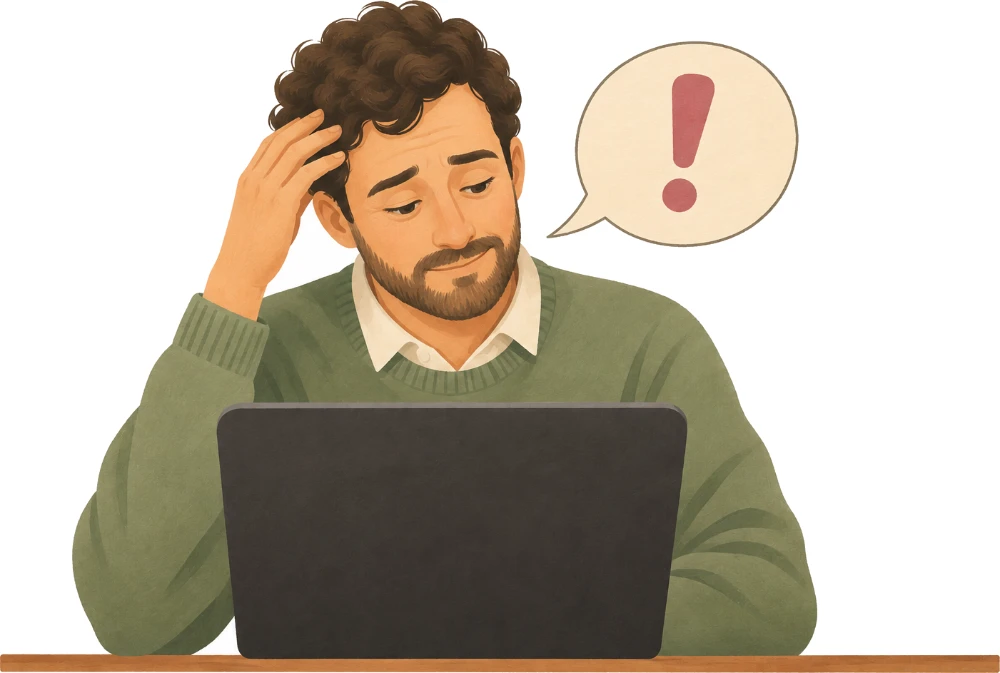
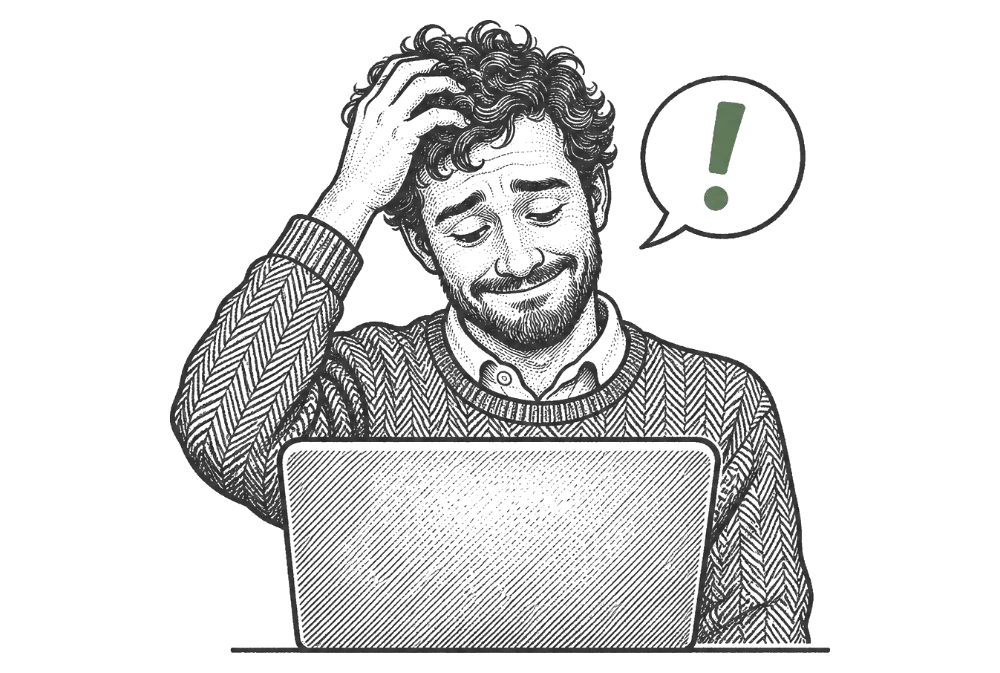
Lab: the people and the two cards in the engraved hand; the cards' graphics open their case studies (#1196)
The account manager and the accounts payable specialist are redrawn as ink
with sage, cut to a transparent ground. Each lab card, on the homepage and
the lab index, carries a drawing where it carried a text-heavy graphic, and
those graphics move to the right of each case study's opener.

diff --git a/index.html b/index.html
@@ -127,7 +127,7 @@
   <link rel="stylesheet" href="style.css?v=20261114c" />
   <link rel="stylesheet" href="site-nav.css?v=20261030b" />
   <link rel="stylesheet" href="app-device.css?v=1" />
-  <link rel="stylesheet" href="thumb-loop.css?v=20" />
+  <link rel="stylesheet" href="thumb-loop.css?v=21" />
   <script src="site-nav.js?v=20260906a" defer></script>
   <script src="app-device.js?v=1" defer></script>
   <!-- The header logo plays a one-shot reveal clip on load and fades out
@@ -1115,6 +1115,12 @@
                belongs on the card, without making it longer). The headline
                already carries the problem; the lead says what the project is
                for, shortened from the case study's line. -->
+          <!-- A DRAWING ON EACH LAB CARD, since 2026-11-15 (Adam: the two
+               graphics felt overwhelming with so much text; an illustration
+               that gets the idea across and invites the click). The
+               graphics moved to the top of their case studies, beside the
+               title. The drawings are in the Writing section's engraved
+               hand, sage as the one accent. -->
           <div class="case-card case-card--lab reveal">
             <div class="case-card-body">
               <h3>Agents build the screens. A designer decides what ships.</h3>
@@ -1156,48 +1162,8 @@
                  screen reader; their names say what they show. The lab
                  index keeps the Explore still above. thumb-loop.css,
                  "Three ways to archive", has it. -->
-            <a class="case-thumb case-thumb--still" href="lab/agent-review.html" aria-label="Read the Agent Review case study: three ways to archive, one designer&rsquo;s call">
-              <div class="explore-still explore-still--three">
-                <ol class="explore-still-stages" aria-label="The prototype's six stages">
-                  <li><span>Discover</span></li>
-                  <li><span>Define</span></li>
-                  <li aria-current="step"><span>Explore</span></li>
-                  <li><span>Evaluate</span></li>
-                  <li><span>Delegate</span></li>
-                  <li><span>Learn</span></li>
-                </ol>
-                <div class="three-body">
-                <p class="explore-still-title">Three ways to archive. <span class="explore-still-ask">One designer&rsquo;s call.</span></p>
-                <ul class="three-ways">
-                  <li class="three-way three-way--call">
-                    <span class="three-screen" aria-hidden="true">
-                      <span class="three-bar"><span>Customers</span><span class="three-btn">Archive</span></span>
-                      <span class="three-row"></span><span class="three-row"></span><span class="three-row"></span><span class="three-row"></span><span class="three-row"></span>
-                      <span class="three-toast"><span>4 archived</span><span class="three-undo">Undo</span></span>
-                    </span>
-                    <span class="explore-still-name">Archive, then undo</span>
-                    <span class="explore-still-line">One press, even in bulk</span>
-                  </li>
-                  <li class="three-way">
-                    <span class="three-screen three-screen--dim" aria-hidden="true">
-                      <span class="three-bar"><span>Customers</span><span class="three-btn">Archive</span></span>
-                      <span class="three-row is-picked"></span><span class="three-row is-picked"></span><span class="three-row is-picked"></span><span class="three-row is-picked"></span><span class="three-row is-picked"></span>
-                      <span class="three-dialog"><span class="three-dialog-title">Archive 5?</span><span>3 are active.</span><span class="three-btn three-btn--dark">Archive 5</span></span>
-                    </span>
-                    <span class="explore-still-name">Confirm first</span>
-                    <span class="explore-still-line">Names who&rsquo;s at risk first</span>
-                  </li>
-                  <li class="three-way">
-                    <span class="three-screen" aria-hidden="true">
-                      <span class="three-bar"><span>Customers</span><span class="three-btn three-btn--dark">Archive 2</span></span>
-                      <span class="three-row is-picked"></span><span class="three-row is-active"><span>Active</span></span><span class="three-row is-active"><span>Active</span></span><span class="three-row is-active"><span>Active</span></span><span class="three-row is-picked"></span>
-                    </span>
-                    <span class="explore-still-name">Review the batch</span>
-                    <span class="explore-still-line">Safest, but the most steps</span>
-                  </li>
-                </ul>
-                </div>
-              </div>
+            <a class="case-thumb case-thumb--art" href="lab/agent-review.html" aria-label="Read the Agent Review case study: three versions of one screen, and a designer choosing one">
+              <img src="img/lab/agent-review-card-ink.webp?v=1" width="1536" height="1024" alt="" loading="lazy" decoding="async" />
             </a>
           </div>
 
@@ -1222,30 +1188,8 @@
                2.4, the stroke Agent Review's prompt prints at, in place of
                Wren's W, which stays Wren's own logo inside the prototype. -->
           <div class="case-card case-card--lab reveal">
-            <a class="case-thumb case-thumb--still" href="lab/after-send.html" aria-label="Read the After Send case study: the invoice says paid, and the supplier is still calling">
-              <div class="explore-still explore-still--handoff">
-                <p class="handoff-record"><span>INV-20483<span class="handoff-supplier"> &middot; Hillside Packaging</span></span><span class="handoff-paid">Marked paid</span></p>
-                <div class="handoff-body">
-                <p class="explore-still-title">&ldquo;Paid&rdquo; is three steps. Only one is done. <span class="explore-still-ask">Next: check if the supplier got the card.</span></p>
-                <ol class="handoff-rail">
-                  <li class="handoff-step--done">
-                    <svg class="explore-still-icon" viewBox="0 0 24 24" fill="none" stroke="currentColor" stroke-width="1.6" stroke-linecap="round" stroke-linejoin="round" aria-hidden="true" focusable="false"><path d="m5 12.5 4.5 4.5L19 7.5"/></svg>
-                    <span class="explore-still-name">Card issued</span>
-                    <span class="explore-still-line">Yes, on Oct 28</span>
-                  </li>
-                  <li class="handoff-step--asked">
-                    <svg class="explore-still-icon" viewBox="0 0 24 24" fill="none" stroke="currentColor" stroke-width="1.6" stroke-linecap="round" stroke-linejoin="round" aria-hidden="true" focusable="false"><circle cx="12" cy="12" r="9"/><path d="M12 7v5l3 2"/></svg>
-                    <span class="explore-still-name">Supplier charged&nbsp;it</span>
-                    <span class="explore-still-line">Not yet</span>
-                  </li>
-                  <li class="handoff-step--open">
-                    <svg class="explore-still-icon" viewBox="0 0 24 24" fill="none" stroke="currentColor" stroke-width="1.6" stroke-linecap="round" stroke-linejoin="round" aria-hidden="true" focusable="false"><path d="M7 3.5h7.5L19 8v12.5H7z"/><path d="M14.5 3.5V8H19"/><path d="M10 13h6"/><path d="M10 16.5h6"/></svg>
-                    <span class="explore-still-name">Matched to the&nbsp;invoice</span>
-                    <span class="explore-still-line">Invoice still open</span>
-                  </li>
-                </ol>
-                </div>
-              </div>
+            <a class="case-thumb case-thumb--art" href="lab/after-send.html" aria-label="Read the After Send case study: the invoice says paid, and the supplier is still calling">
+              <img src="img/lab/after-send-card-ink.webp?v=1" width="1536" height="1024" alt="" loading="lazy" decoding="async" />
             </a>
             <div class="case-card-body">
               <h3>The invoice says paid. Why is the supplier still calling?</h3>

diff --git a/lab/agent-review.html b/lab/agent-review.html
@@ -102,7 +102,8 @@
   <link rel="stylesheet" href="../read-aloud.css?v=7" />
   <link rel="stylesheet" href="../reveal.css?v=2" />
   <link rel="stylesheet" href="relay-screen.css?v=3" />
-  <link rel="stylesheet" href="agent-review.css?v=133" />
+  <link rel="stylesheet" href="../thumb-loop.css?v=21" />
+  <link rel="stylesheet" href="agent-review.css?v=134" />
   <link rel="stylesheet" href="try-lead.css?v=1" />
   <script src="../site-nav.js?v=20260906a" defer></script>
   <script src="../read-aloud.js?v=4" defer></script>
@@ -313,20 +314,57 @@
               </p>
             </div>
           </div>
-          <figure class="ev arc-open-fig" data-step="reviewing" aria-label="Relay: the review open on three customers, naming Northside Trucking">
-              <div class="arc-device">
-                <div class="arc-device-bar" aria-hidden="true"><span class="arc-device-dots"><span></span><span></span><span></span></span><span class="arc-device-title">Relay &middot; Customers</span></div>
-                <div class="ev-screen">
-                  <div class="ev-bar" data-for="reviewing"><span class="ev-bar-text">3 of 5 customers selected</span></div><section class="ev-review" data-for="reviewing" aria-label="Review">
-                    <p class="ev-review-title">Review 3 customers before archiving</p>
-                    <p class="ev-review-group"><span class="ship-list-tag ship-list-tag--active">Active</span> Check this one. Clear the box to keep the customer.</p>
-                    <ul class="ev-keep"><li data-on><svg class="ev-check" viewBox="0 0 16 16" aria-hidden="true" focusable="false"><path d="M4 8.5l2.5 2.5 5.5-6"/></svg>Northside Trucking, $5,040 a month</li></ul>
-                    <p class="ev-review-line">2 customers churned or on trial.</p>
-                    <p class="ev-review-keys"><span class="ev-key ev-key--quiet">Cancel</span> <span class="ev-key ev-key--archive">Archive 3 customers</span></p>
-                  </section>
-                </div>
+          <!-- THE HOMEPAGE CARD'S GRAPHIC, since 2026-11-15 (Adam: use it at
+               the top of the case study, on the right, in place of what
+               was there). The card took a drawing; this took the Relay
+               review screen's place. It is a picture here, named once for
+               a screen reader, and the words in it are the page's own
+               below. thumb-loop.css, "Three ways to archive", has it. -->
+          <figure class="arc-open-fig arc-open-still" role="img" aria-label="Three ways to archive, and one designer&rsquo;s call: archive, then undo; confirm first; or review the batch. Archive, then undo is ringed.">
+            <div aria-hidden="true">
+              <div class="explore-still explore-still--three">
+              <ol class="explore-still-stages" aria-label="The prototype's six stages">
+              <li><span>Discover</span></li>
+              <li><span>Define</span></li>
+              <li aria-current="step"><span>Explore</span></li>
+              <li><span>Evaluate</span></li>
+              <li><span>Delegate</span></li>
+              <li><span>Learn</span></li>
+              </ol>
+              <div class="three-body">
+              <p class="explore-still-title">Three ways to archive. <span class="explore-still-ask">One designer&rsquo;s call.</span></p>
+              <ul class="three-ways">
+              <li class="three-way three-way--call">
+              <span class="three-screen" aria-hidden="true">
+              <span class="three-bar"><span>Customers</span><span class="three-btn">Archive</span></span>
+              <span class="three-row"></span><span class="three-row"></span><span class="three-row"></span><span class="three-row"></span><span class="three-row"></span>
+              <span class="three-toast"><span>4 archived</span><span class="three-undo">Undo</span></span>
+              </span>
+              <span class="explore-still-name">Archive, then undo</span>
+              <span class="explore-still-line">One press, even in bulk</span>
+              </li>
+              <li class="three-way">
+              <span class="three-screen three-screen--dim" aria-hidden="true">
+              <span class="three-bar"><span>Customers</span><span class="three-btn">Archive</span></span>
+              <span class="three-row is-picked"></span><span class="three-row is-picked"></span><span class="three-row is-picked"></span><span class="three-row is-picked"></span><span class="three-row is-picked"></span>
+              <span class="three-dialog"><span class="three-dialog-title">Archive 5?</span><span>3 are active.</span><span class="three-btn three-btn--dark">Archive 5</span></span>
+              </span>
+              <span class="explore-still-name">Confirm first</span>
+              <span class="explore-still-line">Names who&rsquo;s at risk first</span>
+              </li>
+              <li class="three-way">
+              <span class="three-screen" aria-hidden="true">
+              <span class="three-bar"><span>Customers</span><span class="three-btn three-btn--dark">Archive 2</span></span>
+              <span class="three-row is-picked"></span><span class="three-row is-active"><span>Active</span></span><span class="three-row is-active"><span>Active</span></span><span class="three-row is-active"><span>Active</span></span><span class="three-row is-picked"></span>
+              </span>
+              <span class="explore-still-name">Review the batch</span>
+              <span class="explore-still-line">Safest, but the most steps</span>
+              </li>
+              </ul>
               </div>
-            </figure>
+              </div>
+            </div>
+          </figure>
         </div>
         <dl class="glance-facts arc-open-facts">
           <div><dt>Why I built it</dt><dd>To show how I use AI to explore working options, make a product decision, and carry that decision into the next build.</dd></div>
@@ -375,7 +413,7 @@
             <h3 class="ars-title">All three are gone</h3>
             <p>The list gets shorter, and nothing on the screen says who went. Then a support ticket arrives.</p>
             <div class="ars-ticket">
-              <img src="../img/lab/agent-review-account-manager.webp" width="1000" height="673" loading="lazy" decoding="async"
+              <img src="../img/lab/agent-review-account-manager.webp?v=2" width="1000" height="673" loading="lazy" decoding="async"
                    alt="A sheepish account manager behind his open laptop, one hand in his hair, with a speech bubble beside him holding an exclamation mark." />
               <blockquote>
                 <p>&ldquo;I archived Northside Trucking by accident while clearing out old trial accounts. It&rsquo;s one of our biggest accounts. How do I get it back?&rdquo;</p>

diff --git a/lab/after-send.html b/lab/after-send.html
@@ -103,7 +103,8 @@
   <link rel="stylesheet" href="../related.css?v=3" />
   <link rel="stylesheet" href="../read-aloud.css?v=7" />
   <link rel="stylesheet" href="wren.css?v=9" />
-  <link rel="stylesheet" href="after-send.css?v=32" />
+  <link rel="stylesheet" href="../thumb-loop.css?v=21" />
+  <link rel="stylesheet" href="after-send.css?v=33" />
   <link rel="stylesheet" href="try-lead.css?v=1" />
   <script src="../site-nav.js?v=20260906a" defer></script>
   <!-- "Listen to this page" reads the writing around the prototype and not
@@ -251,14 +252,50 @@
       <div class="container case-wide">
         <p class="case-kicker">Lab &middot; After Send &middot; <span class="case-readtime">5 min read</span></p>
         <h1 class="case-title">The invoice says paid. Why is the supplier still calling?</h1>
-        <p class="build-dek">An independent concept on one question: <mark>what happens when a payment status is accurate, but doesn&rsquo;t tell someone what they need to know?</mark> Here, the buyer issued a virtual card, and the supplier hasn&rsquo;t charged it.</p>
-        <!-- WHY I BUILT IT, since 2026-11-08: the same labelled line
-             Agent Review's hero opens on, in this project's terms, made from
-             the build note the close carried until then (Adam). -->
-        <p class="build-dek"><span class="as-dek-label">Why I built it:</span> To show how I decide what the person taking the call needs to see first, then use AI to build the first working version in a day.</p>
-        <div class="as-hero-act">
-          <p class="build-hero-act" data-read-aloud="skip after"><a class="btn btn-primary" href="#try-it">Try the prototype</a></p>
-          <p class="as-standing">Independent concept on simulated data. Wren Payments, the product, and every name and reference in it are made up.</p>
+        <!-- THE HOMEPAGE CARD'S GRAPHIC BESIDE THE OPENING, since 2026-11-15
+             (Adam: use it at the top of the case study, on the right). The
+             card took a drawing. It is a picture here, named once for a
+             screen reader; the page's own words carry the three steps
+             below. thumb-loop.css, "The handoff", has it. -->
+        <div class="as-open-split">
+          <div class="as-open-text">
+          <p class="build-dek">An independent concept on one question: <mark>what happens when a payment status is accurate, but doesn&rsquo;t tell someone what they need to know?</mark> Here, the buyer issued a virtual card, and the supplier hasn&rsquo;t charged it.</p>
+          <!-- WHY I BUILT IT, since 2026-11-08: the same labelled line
+               Agent Review's hero opens on, in this project's terms, made from
+               the build note the close carried until then (Adam). -->
+          <p class="build-dek"><span class="as-dek-label">Why I built it:</span> To show how I decide what the person taking the call needs to see first, then use AI to build the first working version in a day.</p>
+          <div class="as-hero-act">
+            <p class="build-hero-act" data-read-aloud="skip after"><a class="btn btn-primary" href="#try-it">Try the prototype</a></p>
+            <p class="as-standing">Independent concept on simulated data. Wren Payments, the product, and every name and reference in it are made up.</p>
+          </div>
+          </div>
+          <figure class="as-open-fig" role="img" aria-label="Invoice INV-20483, marked paid. Paid is three steps and only one is done: the card was issued; the supplier has not charged it; the invoice is still open.">
+            <div aria-hidden="true">
+              <div class="explore-still explore-still--handoff">
+              <p class="handoff-record"><span>INV-20483<span class="handoff-supplier"> &middot; Hillside Packaging</span></span><span class="handoff-paid">Marked paid</span></p>
+              <div class="handoff-body">
+              <p class="explore-still-title">&ldquo;Paid&rdquo; is three steps. Only one is done. <span class="explore-still-ask">Next: check if the supplier got the card.</span></p>
+              <ol class="handoff-rail">
+              <li class="handoff-step--done">
+              <svg class="explore-still-icon" viewBox="0 0 24 24" fill="none" stroke="currentColor" stroke-width="1.6" stroke-linecap="round" stroke-linejoin="round" aria-hidden="true" focusable="false"><path d="m5 12.5 4.5 4.5L19 7.5"/></svg>
+              <span class="explore-still-name">Card issued</span>
+              <span class="explore-still-line">Yes, on Oct 28</span>
+              </li>
+              <li class="handoff-step--asked">
+              <svg class="explore-still-icon" viewBox="0 0 24 24" fill="none" stroke="currentColor" stroke-width="1.6" stroke-linecap="round" stroke-linejoin="round" aria-hidden="true" focusable="false"><circle cx="12" cy="12" r="9"/><path d="M12 7v5l3 2"/></svg>
+              <span class="explore-still-name">Supplier charged&nbsp;it</span>
+              <span class="explore-still-line">Not yet</span>
+              </li>
+              <li class="handoff-step--open">
+              <svg class="explore-still-icon" viewBox="0 0 24 24" fill="none" stroke="currentColor" stroke-width="1.6" stroke-linecap="round" stroke-linejoin="round" aria-hidden="true" focusable="false"><path d="M7 3.5h7.5L19 8v12.5H7z"/><path d="M14.5 3.5V8H19"/><path d="M10 13h6"/><path d="M10 16.5h6"/></svg>
+              <span class="explore-still-name">Matched to the&nbsp;invoice</span>
+              <span class="explore-still-line">Invoice still open</span>
+              </li>
+              </ol>
+              </div>
+              </div>
+            </div>
+          </figure>
         </div>
       </div>
     </header>
@@ -294,7 +331,7 @@
             <div class="as-zone">
               <div class="as-call is-on" data-on="1">
                 <div class="as-call-party">
-                  <img class="as-call-art" src="../img/lab/after-send-specialist.webp" width="1000" height="667" loading="lazy" decoding="async" alt="The buyer&rsquo;s accounts payable specialist at her laptop with a desk phone to her ear, looking puzzled, with a speech bubble holding a question mark." />
+                  <img class="as-call-art" src="../img/lab/after-send-specialist.webp?v=2" width="1000" height="667" loading="lazy" decoding="async" alt="The buyer&rsquo;s accounts payable specialist at her laptop with a desk phone to her ear, looking puzzled, with a speech bubble holding a question mark." />
                   <p class="as-side-name">The buyer</p>
                   <p class="as-side-role">Accounts payable specialist</p>
                 </div>

diff --git a/lab/index.html b/lab/index.html
@@ -93,7 +93,7 @@
   <link rel="stylesheet" href="../type.css?v=8" />
   <link rel="stylesheet" href="../style.css?v=20261114c" />
   <link rel="stylesheet" href="../site-nav.css?v=20261030b" />
-  <link rel="stylesheet" href="../thumb-loop.css?v=20" />
+  <link rel="stylesheet" href="../thumb-loop.css?v=21" />
   <link rel="stylesheet" href="index.css?v=8" />
   <script src="../site-nav.js?v=20260906a" defer></script>
   <!-- The header logo plays a one-shot reveal clip on load and fades out
@@ -278,27 +278,7 @@
                word hides. -->
           <li class="writing-item">
             <a class="writing-link" href="after-send.html">
-              <div class="explore-still explore-still--handoff writing-card" aria-hidden="true">
-                <p class="handoff-record"><span>INV-20483<span class="handoff-supplier"> &middot; Hillside Packaging</span></span><span class="handoff-paid">Marked paid</span></p>
-                <p class="explore-still-title">&ldquo;Paid&rdquo; is three steps. Only one is done. <span class="explore-still-ask">Next: check if the supplier got the card.</span></p>
-                <ol class="handoff-rail">
-                  <li class="handoff-step--done">
-                    <svg class="explore-still-icon" viewBox="0 0 24 24" fill="none" stroke="currentColor" stroke-width="1.6" stroke-linecap="round" stroke-linejoin="round" aria-hidden="true" focusable="false"><path d="m5 12.5 4.5 4.5L19 7.5"/></svg>
-                    <span class="explore-still-name">Card issued</span>
-                    <span class="explore-still-line">Yes, on Oct 28</span>
-                  </li>
-                  <li class="handoff-step--asked">
-                    <svg class="explore-still-icon" viewBox="0 0 24 24" fill="none" stroke="currentColor" stroke-width="1.6" stroke-linecap="round" stroke-linejoin="round" aria-hidden="true" focusable="false"><circle cx="12" cy="12" r="9"/><path d="M12 7v5l3 2"/></svg>
-                    <span class="explore-still-name">Supplier charged&nbsp;it</span>
-                    <span class="explore-still-line">Not yet</span>
-                  </li>
-                  <li class="handoff-step--open">
-                    <svg class="explore-still-icon" viewBox="0 0 24 24" fill="none" stroke="currentColor" stroke-width="1.6" stroke-linecap="round" stroke-linejoin="round" aria-hidden="true" focusable="false"><path d="M7 3.5h7.5L19 8v12.5H7z"/><path d="M14.5 3.5V8H19"/><path d="M10 13h6"/><path d="M10 16.5h6"/></svg>
-                    <span class="explore-still-name">Matched to the&nbsp;invoice</span>
-                    <span class="explore-still-line">Invoice still open</span>
-                  </li>
-                </ol>
-              </div>
+              <img class="writing-card" src="../img/lab/after-send-card-ink.webp?v=1" width="1536" height="1024" alt="" loading="lazy" decoding="async" />
               <div class="writing-text">
                 <h3 class="writing-title">After Send: the invoice says paid. Why is the supplier still calling?</h3>
                 <p class="writing-dek">The card was issued but never charged. An independent concept on simulated data, not tested with specialists yet.</p>
@@ -351,34 +331,7 @@
                already asks. -->
           <li class="writing-item">
             <a class="writing-link" href="agent-review.html">
-              <div class="explore-still writing-card" aria-hidden="true">
-                <ol class="explore-still-stages" aria-label="The prototype's six stages">
-                  <li><span>Discover</span></li>
-                  <li><span>Define</span></li>
-                  <li aria-current="step"><span>Explore</span></li>
-                  <li><span>Evaluate</span></li>
-                  <li><span>Delegate</span></li>
-                  <li><span>Learn</span></li>
-                </ol>
-                <p class="explore-still-title">A simulated agent built three ways to archive. <span class="explore-still-ask">Which one ships?</span></p>
-                <ul class="explore-still-ways">
-                  <li>
-                    <svg class="explore-still-icon" viewBox="0 0 24 24" fill="none" stroke="currentColor" stroke-width="1.6" stroke-linecap="round" stroke-linejoin="round" aria-hidden="true" focusable="false"><path d="M9 14 4 9l5-5"/><path d="M4 9h10.5a5.5 5.5 0 0 1 0 11H11"/></svg>
-                    <span class="explore-still-name">Archive now, undo after</span>
-                    <span class="explore-still-line">Fast, but you have to notice</span>
-                  </li>
-                  <li>
-                    <svg class="explore-still-icon" viewBox="0 0 24 24" fill="none" stroke="currentColor" stroke-width="1.6" stroke-linecap="round" stroke-linejoin="round" aria-hidden="true" focusable="false"><path d="M20 11.5a8 8 0 0 1-11.6 7.1L4 20l1.4-4.2A8 8 0 1 1 20 11.5Z"/><path d="M9.8 9.2a2.3 2.3 0 1 1 3.2 2.1c-.6.3-1 .8-1 1.4v.3"/><path d="M12 16.2h.01"/></svg>
-                    <span class="explore-still-name">Confirm first, naming who</span>
-                    <span class="explore-still-line">Easy to click past, unread</span>
-                  </li>
-                  <li>
-                    <svg class="explore-still-icon" viewBox="0 0 24 24" fill="none" stroke="currentColor" stroke-width="1.6" stroke-linecap="round" stroke-linejoin="round" aria-hidden="true" focusable="false"><path d="m4 6 1.5 1.5L8.5 4.5"/><path d="m4 12 1.5 1.5L8.5 10.5"/><path d="m4 18 1.5 1.5L8.5 16.5"/><path d="M12 6h8"/><path d="M12 12h8"/><path d="M12 18h8"/></svg>
-                    <span class="explore-still-name">Review batch, then archive</span>
-                    <span class="explore-still-line">Safest, but the most steps</span>
-                  </li>
-                </ul>
-              </div>
+              <img class="writing-card" src="../img/lab/agent-review-card-ink.webp?v=1" width="1536" height="1024" alt="" loading="lazy" decoding="async" />
               <div class="writing-text">
                 <h3 class="writing-title">Agent Review: three working versions, one human decision</h3>
                 <p class="writing-dek">A working prototype for comparing interface tradeoffs before deciding what ships. The agent&rsquo;s runs are simulated.</p>

diff --git a/lab/after-send.css b/lab/after-send.css
@@ -949,3 +949,13 @@
 .as-test-ends li::before { content: none; }
 .as-test-ends strong { font-weight: var(--weight-semibold); color: var(--color-charcoal); }
 
+
+/* ---- The opener, with the card's graphic beside it (2026-11-15) ----
+   One column to 64rem, the graphic under the words; two from there, the
+   same 5 to 6 split Agent Review's opener uses. */
+.as-open-split { display: grid; gap: var(--space-2xl); }
+.as-open-fig { min-width: 0; margin: 0; }
+.as-open-fig .explore-still { box-shadow: inset 0 0 0 1px var(--rule-card), var(--shadow-media); }
+@media (min-width: 64rem) {
+  .as-open-split { grid-template-columns: minmax(0, 5fr) minmax(0, 6fr); column-gap: var(--space-4xl); align-items: center; }
+}

diff --git a/thumb-loop.css b/thumb-loop.css
@@ -18,6 +18,8 @@
    the ways are rows with the icon beside the words, and the stage bar
    names only the stage it is on; from 30rem the ways stand three across
    and every stage is named; from 36rem their words take a step up. */
+/* A lab card's drawing is 3:2, where a case study's capture is 16:9. */
+.case-thumb--art { aspect-ratio: 3 / 2; }
 .case-thumb--still {
   aspect-ratio: auto;
   background: var(--color-charcoal);
@@ -335,6 +337,7 @@
   width: 72%;
   box-sizing: border-box;
   padding: var(--space-xs);
+  border: 1px solid var(--rule-card);
   background: var(--color-white);
   border-radius: var(--space-xs);
   box-shadow: var(--shadow-media);

diff --git a/lab/agent-review.css b/lab/agent-review.css
@@ -68,6 +68,9 @@
 .arc-open .case-title { margin-bottom: 0; }
 .arc-open-split { display: grid; gap: var(--space-2xl); margin-top: var(--space-2xl); padding-top: var(--space-xl); border-top: 1px solid var(--rule-card); }
 .arc-open-fig { min-width: 0; margin: 0; }
+/* The homepage card's graphic in the opener: a block, not a link, on the
+   card's own charcoal. */
+.arc-open-still .explore-still { box-shadow: var(--shadow-media); }
 /* relay-screen.css sets the review's lines under .case-section and
    .writing-measure; the opener is neither, so the same two rules, here. */
 .arc-open .ev-review-title {
